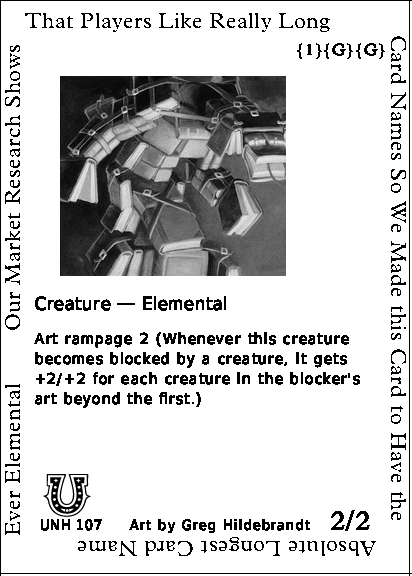
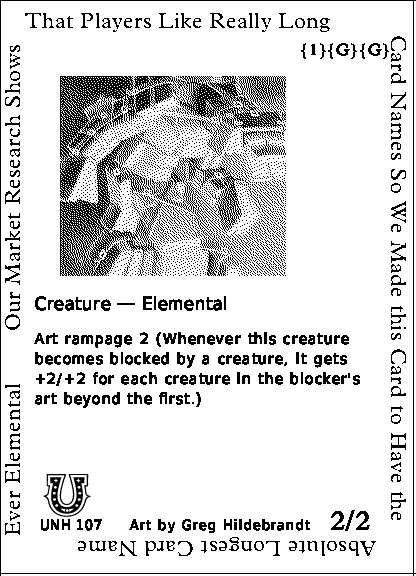
The new dithering pipeline passed an RGB byte buffer to dithr::gray_u8(), causing dithr to interpret the RGB channel bytes as grayscale pixels. This branch fixes this error

diff --git a/oracle_escpos/src/art.rs b/oracle_escpos/src/art.rs
@@ -1,0 +1,67 @@
+use dithr::diffusion::atkinson_in_place;
+use dithr::diffusion::floyd_steinberg_in_place;
+use dithr::diffusion::sierra_lite_in_place;
+use dithr::{QuantizeMode, gray_u8};
+use image::{DynamicImage, ImageBuffer, imageops};
+pub(crate) struct CardArtPipeline {}
+
+impl CardArtPipeline {
+    pub(crate) fn new() -> Self {
+        Self {}
+    }
+
+    pub(crate) fn process(
+        image: DynamicImage,
+        max_width: u32,
+        max_height: u32,
+    ) -> ImageBuffer<image::Rgb<u8>, Vec<u8>> {
+        let mut image = image
+            .resize(max_width, max_height, imageops::FilterType::Lanczos3)
+            .grayscale()
+            .to_luma8();
+        for pixel in image.pixels_mut() {
+            pixel[0] = Self::s_curve(pixel[0]);
+        }
+
+        let width = image.width() as usize;
+        let height = image.height() as usize;
+
+        let mut buffer =
+            gray_u8(image.as_mut(), width, height, width).expect("valid grayscale image");
+
+        let quantize = QuantizeMode::gray_bits(1).expect("1-bit quantization");
+
+        sierra_lite_in_place(&mut buffer, quantize).expect("Sierra Lite dithering failed");
+
+        DynamicImage::ImageLuma8(image).into_rgb8()
+    }
+
+    fn s_curve(value: u8) -> u8 {
+        const POINTS: &[(u8, u8)] = &[
+            (0, 0),
+            (32, 92),
+            (64, 145),
+            (96, 178),
+            (128, 200),
+            (160, 218),
+            (192, 231),
+            (224, 242),
+            (255, 255),
+        ];
+        let value = value as f32;
+
+        for window in POINTS.windows(2) {
+            let [(x0, y0), (x1, y1)] = window else {
+                unreachable!();
+            };
+
+            if value <= *x1 as f32 {
+                let t = (value - *x0 as f32) / (*x1 as f32 - *x0 as f32);
+
+                return (*y0 as f32 + t * (*y1 as f32 - *y0 as f32)).round() as u8;
+            }
+        }
+
+        255
+    }
+}

diff --git a/oracle_escpos/src/card.rs b/oracle_escpos/src/card.rs
@@ -1,4 +1,5 @@
 use crate::{
+    art::CardArtPipeline,
     layout::{self, BorderStyle, Layout},
     render::{
         BorderWrapConfig, draw_border, draw_svg, draw_text, draw_text_around_border, text_width,
@@ -79,14 +80,17 @@ impl CardImage {
         if let Some(card_art) = card_art {
             let card_art_img = image::load_from_memory(&card_art)?;
 
-            let art = card_art_img
-                .resize(
-                    layout.art.max_width,
-                    layout.art.max_height,
-                    imageops::FilterType::Lanczos3,
-                )
-                .grayscale()
-                .to_rgb8();
+            let art =
+                CardArtPipeline::process(card_art_img, layout.art.max_width, layout.art.max_height);
+
+            // let art = card_art_img
+            //     .resize(
+            //         layout.art.max_width,
+            //         layout.art.max_height,
+            //         imageops::FilterType::Lanczos3,
+            //     )
+            //     .grayscale()
+            //     .to_rgb8();
 
             imageops::overlay(&mut card_img, &art, layout.art.x, layout.art.y);
         }

diff --git a/oracle_escpos/src/lib.rs b/oracle_escpos/src/lib.rs
@@ -1,3 +1,4 @@
+mod art;
 mod card;
 mod layout;
 mod printer;
